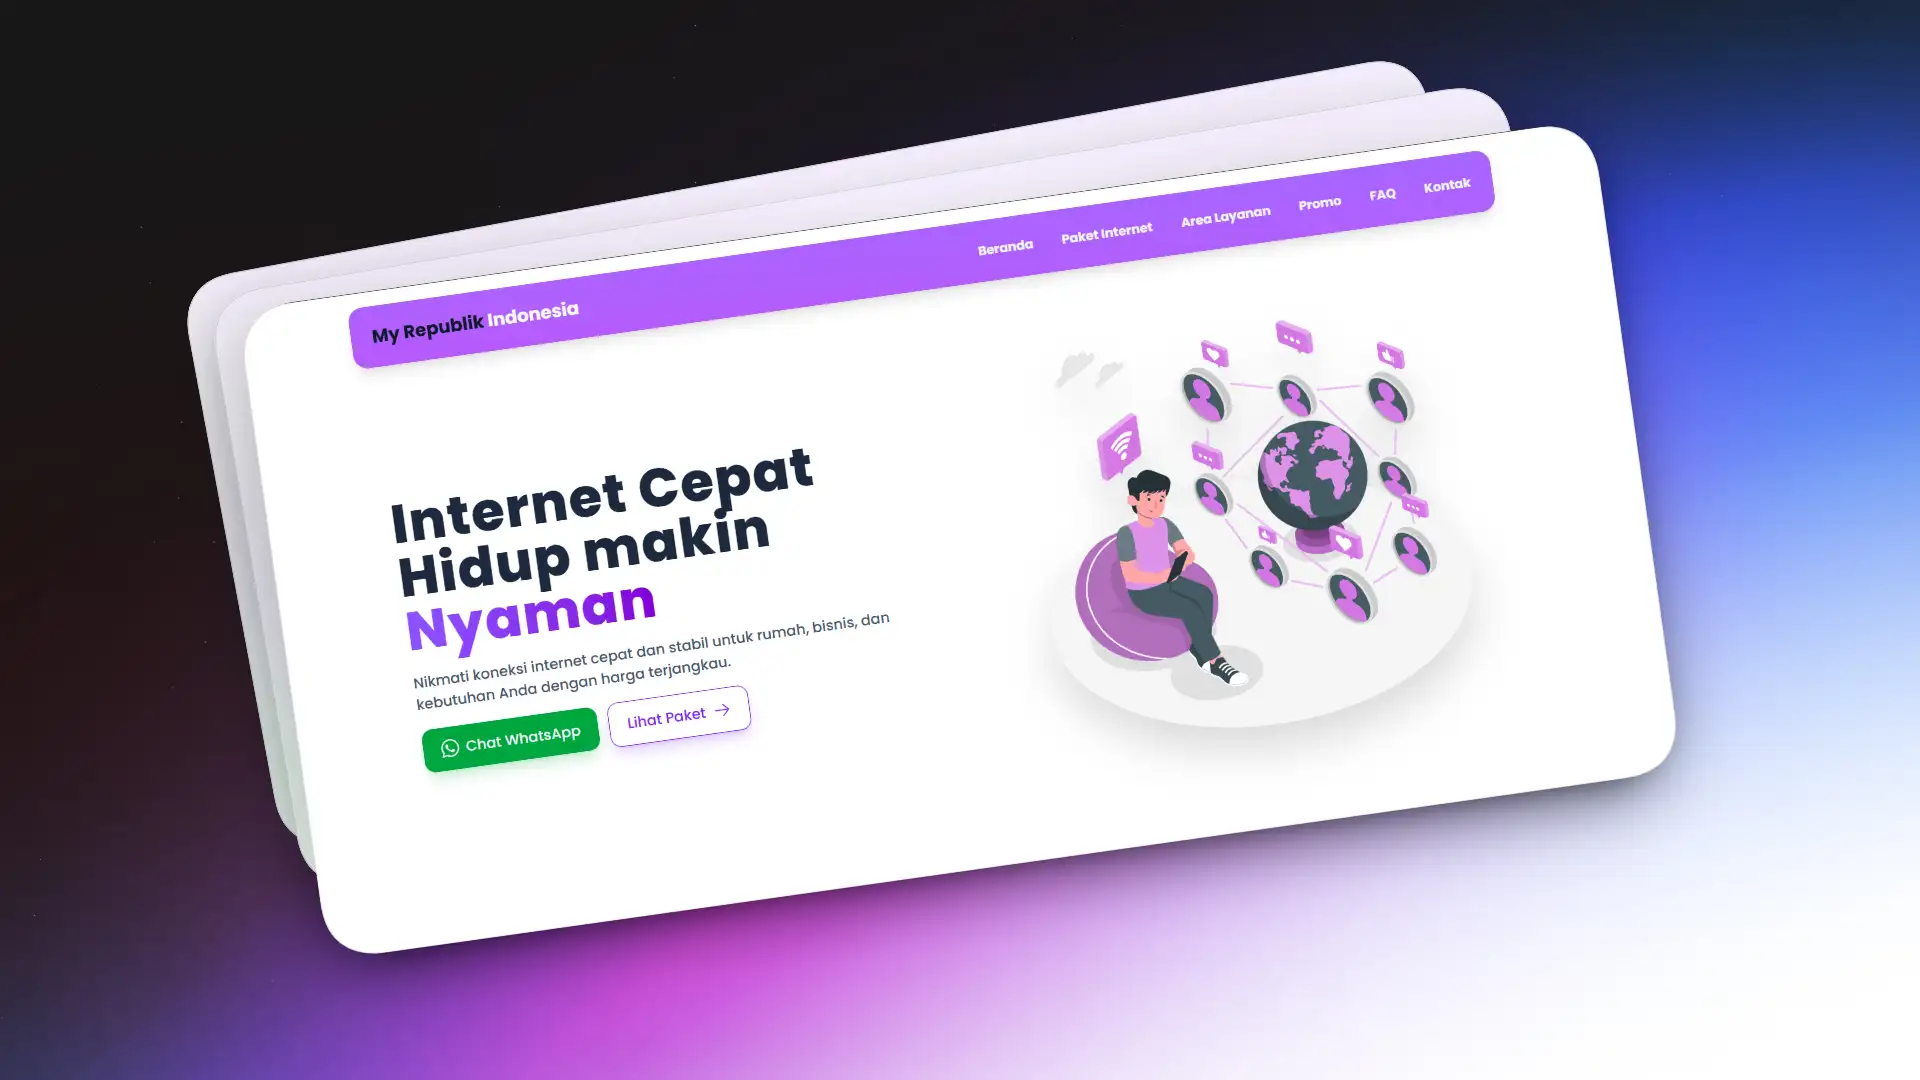
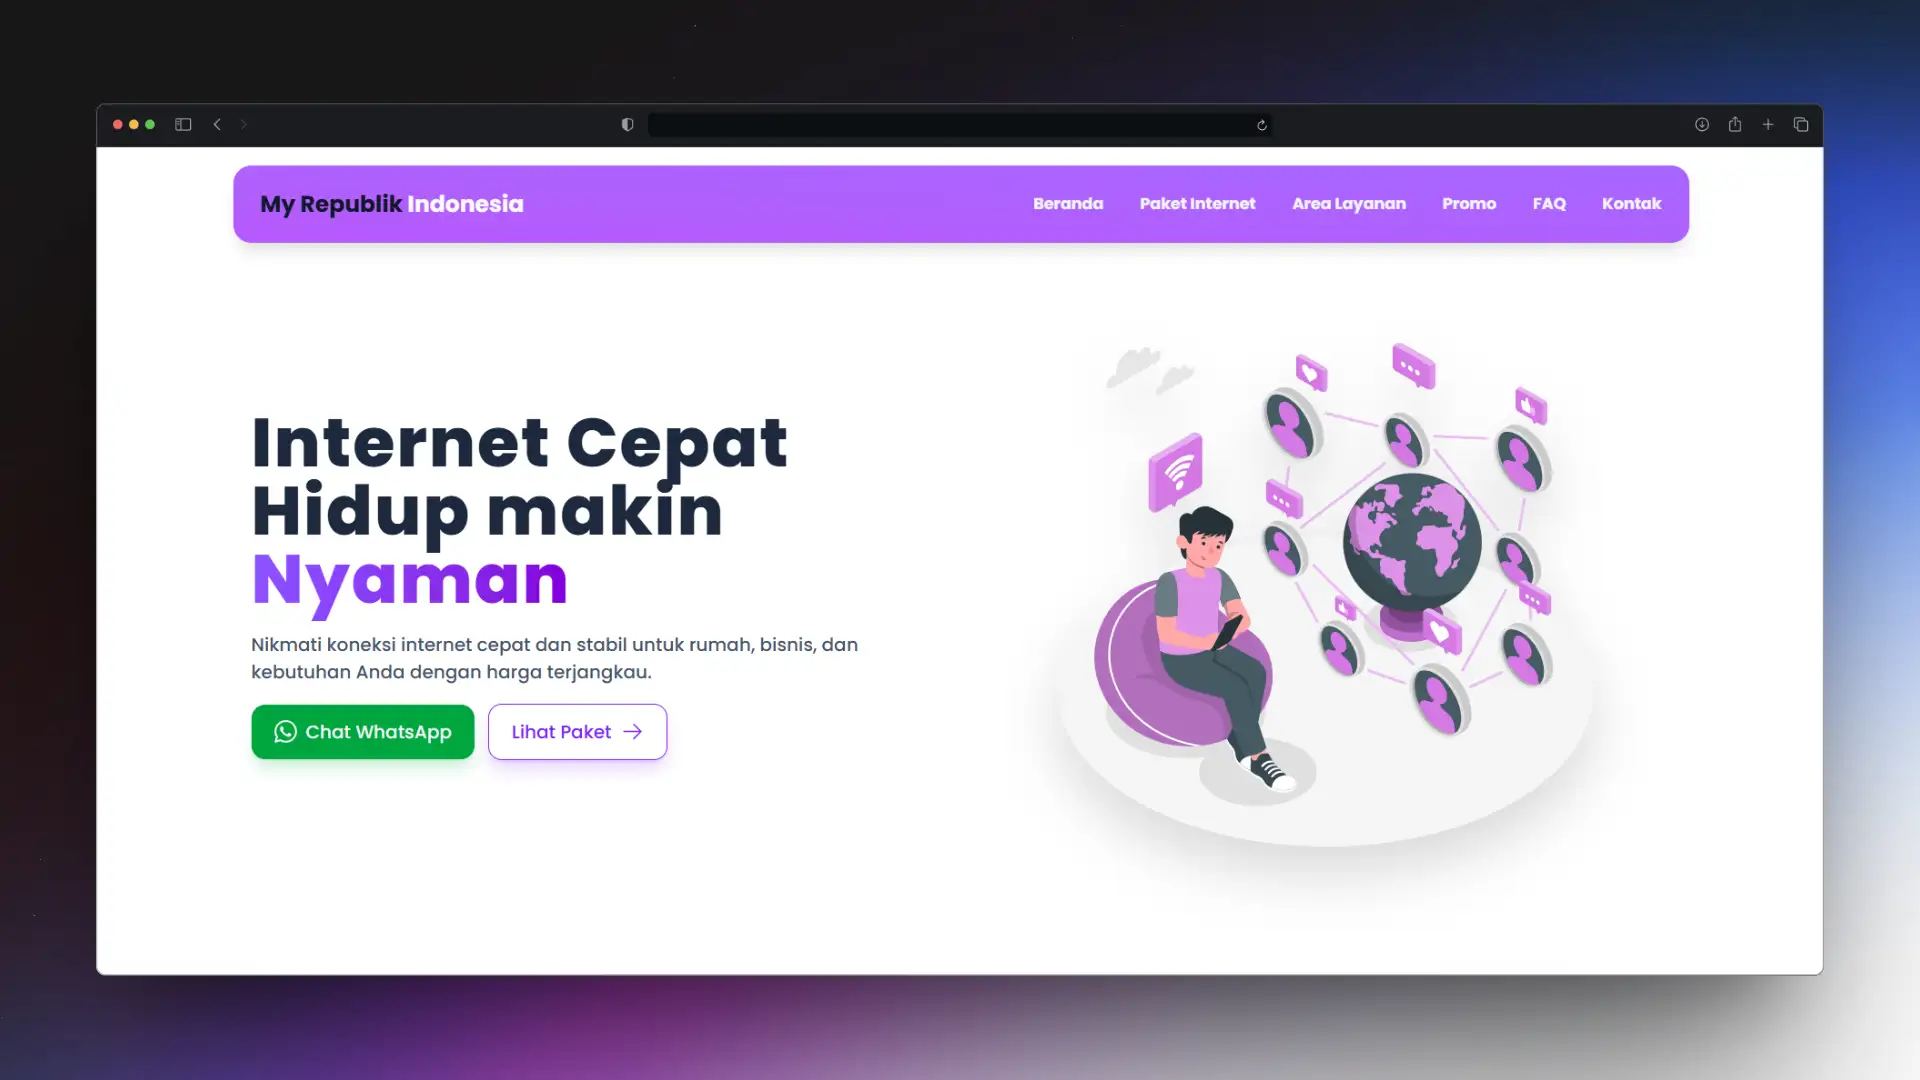
menambahkan project baru di project section menggunakan props ProjectCard

diff --git a/src/components/ProjectSection.vue b/src/components/ProjectSection.vue
@@ -1,13 +1,11 @@
 <script setup lang="ts">
 import ProjectCard from './ProjectCard.vue'
 
-
 const projects = [
   {
     id: 1,
     title: 'Website Sales Provider Internet',
-    image:
-      '/projects/web-sales.webp',
+    image: '/projects/web-sales.webp',
     techStack: ['Vue.js', 'Tailwind CSS'],
     githubUrl: 'https://github.com',
     previewUrl: 'https://preview.com',
@@ -15,34 +13,32 @@ const projects = [
   },
   {
     id: 2,
-    title: 'Aplikasi E-Commerce Minimalis',
-    image:
-      'https://images.unsplash.com/photo-1555066931-4365d14bab8c?q=80&w=2070&auto=format&fit=crop',
-    techStack: ['React', 'Next.js', 'Prisma'],
+    title: 'Company Profile Vertex Living Residence',
+    image: '/projects/company-profile-vertex.webp',
+    techStack: ['Vue.js', 'Typescript', 'Tailwind CSS', 'Vue Router'],
     githubUrl: 'https://github.com',
-    previewUrl: 'https://preview.com',
+    // previewUrl: 'https://preview.com',
     detailUrl: '#detail-2',
   },
   {
-    id: 2,
-    title: 'Aplikasi E-Commerce Minimalis',
-    image:
-      'https://images.unsplash.com/photo-1555066931-4365d14bab8c?q=80&w=2070&auto=format&fit=crop',
-    techStack: ['React', 'Next.js', 'Prisma'],
+    id: 3,
+    title: 'Easy Caption',
+    image: '/projects/easy-caption.webp',
+    techStack: ['Vue.js', 'TypeScript', 'Tailwind CSS', 'Pinia', 'Vue Router'],
     githubUrl: 'https://github.com',
-    previewUrl: 'https://preview.com',
+    // previewUrl: 'https://preview.com',
     detailUrl: '#detail-2',
   },
-  {
-    id: 2,
-    title: 'Aplikasi E-Commerce Minimalis',
-    image:
-      'https://images.unsplash.com/photo-1555066931-4365d14bab8c?q=80&w=2070&auto=format&fit=crop',
-    techStack: ['React', 'Next.js', 'Prisma'],
-    githubUrl: 'https://github.com',
-    previewUrl: 'https://preview.com',
-    detailUrl: '#detail-2',
-  },
+  // {
+  //   id: 2,
+  //   title: 'Aplikasi E-Commerce Minimalis',
+  //   image:
+  //     'https://images.unsplash.com/photo-1555066931-4365d14bab8c?q=80&w=2070&auto=format&fit=crop',
+  //   techStack: ['React', 'Next.js', 'Prisma'],
+  //   githubUrl: 'https://github.com',
+  //   previewUrl: 'https://preview.com',
+  //   detailUrl: '#detail-2',
+  // },
 ]
 </script>
 

diff --git a/src/components/ProjectCard.vue b/src/components/ProjectCard.vue
@@ -6,7 +6,7 @@ defineProps<{
   image: string
   techStack: string[]
   githubUrl: string
-  previewUrl: string
+  previewUrl?: string
   detailUrl: string
 }>()
 </script>
@@ -27,7 +27,7 @@ defineProps<{
         {{ title }}
       </h3>
 
-      <div class="flex flex-wrap gap-1.5 mb-5 mt-auto">
+      <div class="flex flex-wrap gap-1.5 mb-5">
         <span 
           v-for="tech in techStack" 
           :key="tech"
@@ -37,7 +37,7 @@ defineProps<{
         </span>
       </div>
 
-      <div class="flex items-center gap-2 pt-3 border-t border-zinc-800/80">
+      <div class="flex items-center gap-2 pt-3 mt-auto border-t border-zinc-800/80">
         
         <a 
           :href="detailUrl" 
@@ -57,6 +57,7 @@ defineProps<{
         </a>
 
         <a 
+        v-if="previewUrl"
           :href="previewUrl" 
           target="_blank"
           class="flex items-center justify-center bg-zinc-800 hover:bg-zinc-700 text-zinc-300 hover:text-white p-2 rounded-lg transition-colors"
